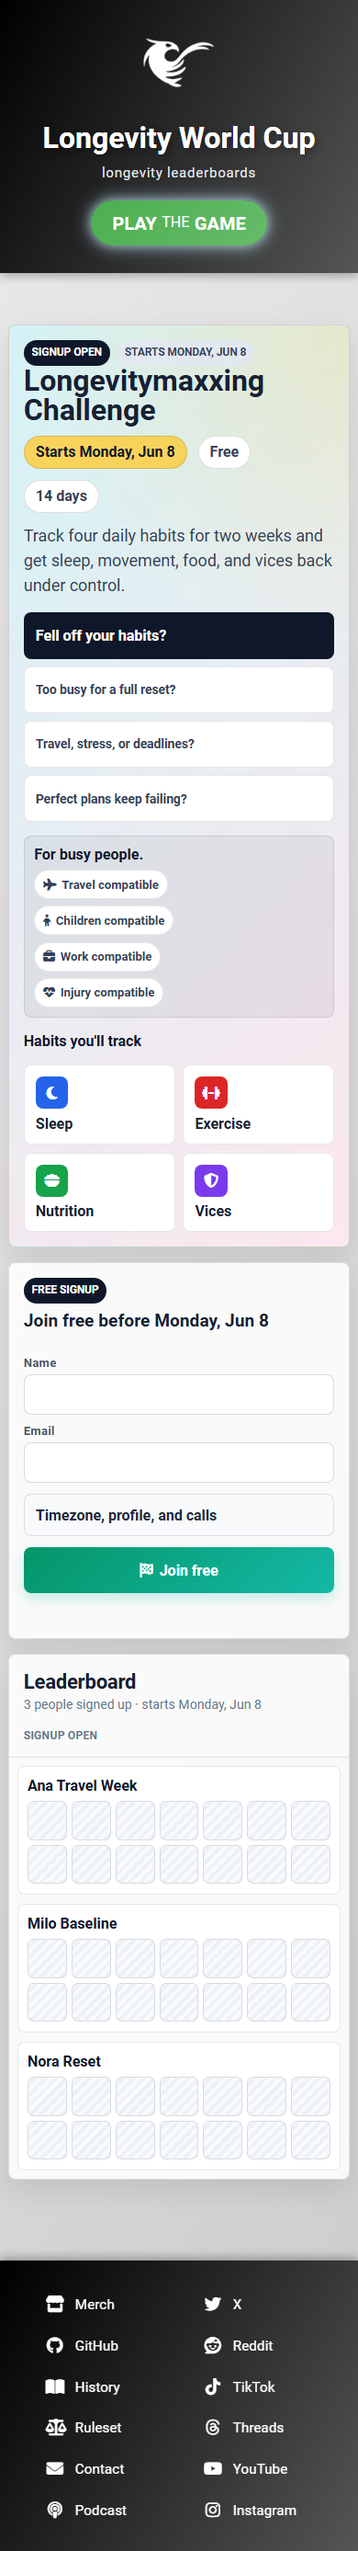
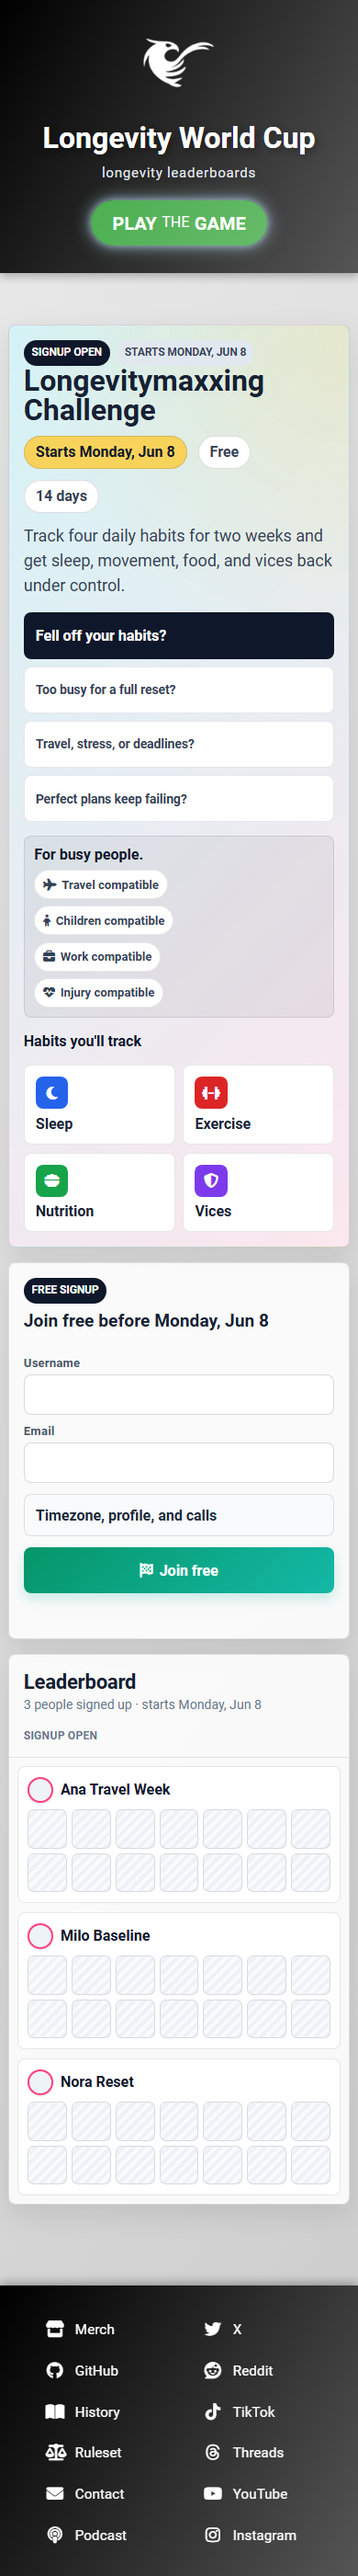
Use username label for challenge signup

diff --git a/LongevityWorldCup.Website/wwwroot/longevitymaxxing/longevitymaxxing.html b/LongevityWorldCup.Website/wwwroot/longevitymaxxing/longevitymaxxing.html
@@ -92,8 +92,8 @@
                         <form id="lmxSignupForm" class="lmx-form">
                             <div class="lmx-field-grid">
                                 <div class="lmx-field">
-                                    <label for="lmxSignupName">Name</label>
-                                    <input id="lmxSignupName" name="displayName" autocomplete="name" required maxlength="80">
+                                    <label for="lmxSignupName">Username</label>
+                                    <input id="lmxSignupName" name="displayName" autocomplete="username" required maxlength="80">
                                 </div>
                                 <div class="lmx-field">
                                     <label for="lmxSignupEmail">Email</label>
@@ -161,8 +161,8 @@
                     <div id="lmxParticipantCalls" class="lmx-call-votes"></div>
                     <form id="lmxEditForm" class="lmx-form lmx-hidden">
                         <div class="lmx-field">
-                            <label for="lmxEditName">Name</label>
-                            <input id="lmxEditName" required maxlength="80">
+                            <label for="lmxEditName">Username</label>
+                            <input id="lmxEditName" autocomplete="username" required maxlength="80">
                         </div>
                         <div class="lmx-field">
                             <label for="lmxEditTimeZone">Timezone</label>

diff --git a/LongevityWorldCup.Tests/LongevitymaxxingChallengePageTests.cs b/LongevityWorldCup.Tests/LongevitymaxxingChallengePageTests.cs
@@ -18,6 +18,10 @@ public sealed class LongevitymaxxingChallengePageTests
         Assert.Contains("Starts soon", html);
         Assert.Contains("Free", html);
         Assert.Contains("Join free", html);
+        Assert.Contains("<label for=\"lmxSignupName\">Username</label>", html);
+        Assert.Contains("<label for=\"lmxEditName\">Username</label>", html);
+        Assert.Contains("autocomplete=\"username\"", html);
+        Assert.DoesNotContain("<label for=\"lmxSignupName\">Name</label>", html);
         Assert.Contains("Fell off your habits?", html);
         Assert.Contains("Too busy for a full reset?", html);
         Assert.Contains("Travel, stress, or deadlines?", html);
